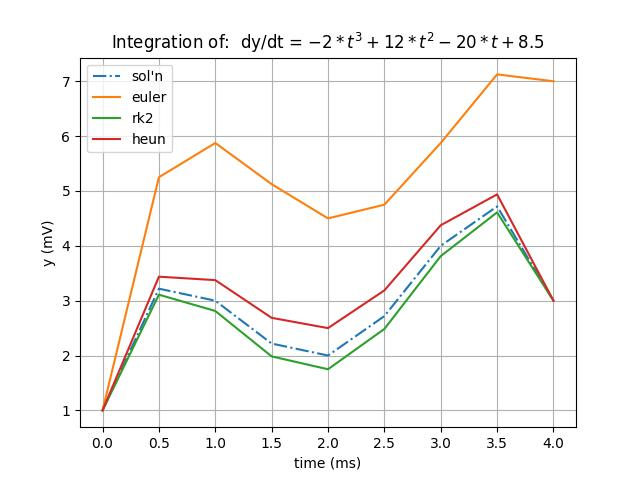
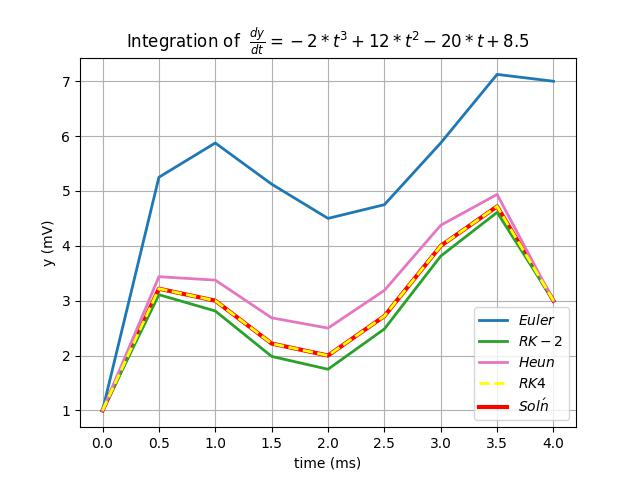
Rk4 Updates (#34)
* Add files via upload

* Update ode_utils.py

RK4 added
_sum_combine fun changed
RK2 aligned with RK4

* Update integration.md

ODE comparison code changed (RK4 added)

* Update integration.md

RK4 added to the descriptions

* Update rateCell.py

integType == 2 --> RK4

* Update ode_utils.py

rk4$ -> rk4

diff --git a/ngclearn/utils/diffeq/ode_utils.py b/ngclearn/utils/diffeq/ode_utils.py
@@ -2,10 +2,11 @@
 Routines and co-routines for ngc-learn's differential equation integration backend.
 
 Currently supported back-end forms of integration in ngc-learn include:
-1) Euler integration (RK-1);
-2) Midpoint method (RK-2);
-3) Heun's method (error-corrector RK-2); 
-4) Ralston's method (error-corrector RK-2)
+0) Euler integration (RK-1);
+1) Midpoint method (RK-2);
+2) Heun's method (error-corrector RK-2);
+3) Ralston's method (error-corrector RK-2);
+4) 4th-order Runge-Kutta method (RK-4);
 """
 from jax import numpy as jnp, random, jit #, nn
 from functools import partial
@@ -19,7 +20,7 @@ def get_integrator_code(integrationType):
     Args:
         integrationType: string indicating integrator type
             (supported type: rk1` or `euler`, `rk2` or `midpoint`,
-            `rk2_heun` or `heun`, `rk2_ralston` or `ralston`)
+            `rk2_heun` or `heun`, `rk2_ralston` or `ralston`, `rk4`)
 
     Returns:
         integator type integer code
@@ -31,17 +32,21 @@ def get_integrator_code(integrationType):
         intgFlag = 2
     elif integrationType == "rk2_ralston" or integrationType == "ralston": ## Ralston's method
         intgFlag = 3
-    # elif integrationType == "rk4": ## Runge-Kutte 4rd order code
-    #     intgFlag = 4
+    elif integrationType == "rk4": ## Runge-Kutte 4rd order code
+        intgFlag = 4
     else:
         if integrationType != "euler" or integrationType == "rk1":
             print("ERROR: unrecognized integration method {} provided! Defaulting \
                   to RK-1/Euler routine".format(integrationType))
     return intgFlag
 
+
 @jit
-def _sum_combine(y1, y2, weight1=1., weight2=1.): ## fast co-routine for simple addition
-    return (y1 * weight1 + y2 * weight2)
+def _sum_combine(*args, **kwargs): ## fast co-routine for simple addition
+    sum = 0
+    for arg, val in zip(args, kwargs.values()):
+        sum += arg * val
+    return sum
 
 @jit
 def _step_forward(t, x, dx_dt, dt, x_scale): ## internal step co-routine
@@ -110,9 +115,10 @@ def step_heun(t, x, dfx, dt, params, x_scale=1.):
     dx_dt = dfx(t, x, params)
     _t, _x = _step_forward(t, x, dx_dt, dt, x_scale)
     _dx_dt = dfx(_t, _x, params)
-    summed_dx_dt = _sum_combine(dx_dt, _dx_dt)
+    summed_dx_dt = _sum_combine(dx_dt, _dx_dt, weight1=1, weight2=1)
     _, _x = _step_forward(t, x, summed_dx_dt, dt * 0.5, x_scale)
     return _t, _x
+
 
 def step_rk2(t, x, dfx, dt, params, x_scale=1.):
     """
@@ -143,11 +149,59 @@ def step_rk2(t, x, dfx, dt, params, x_scale=1.):
     Returns:
         variable values iteratively integrated/advanced to next step (`t + dt`)
     """
-    dx_dt = dfx(t, x, params)
-    tm, xm = _step_forward(t, x, dx_dt, dt * 0.5, x_scale)
-    _dx_dt = dfx(tm, xm, params)
-    _t, _x = _step_forward(t, x, _dx_dt, dt, x_scale)
+    f_1 = dfx(t, x, params)
+    t1, x1 = _step_forward(t, x, f_1, dt * 0.5, x_scale)
+
+    f_2 = dfx(t1, x1, params)
+    _t, _x = _step_forward(t, x, f_2, dt, x_scale)
     return _t, _x
+
+
+def step_rk4(t, x, dfx, dt, params, x_scale=1.):
+    """
+    Iteratively integrates one step forward via the midpoint method, i.e., a
+    fourth-order Runge-Kutta (RK-4) step.
+    (Note: ngc-learn internally recognizes "rk4" or this routine)
+
+    | Reference:
+    | Ascher, Uri M., and Linda R. Petzold. Computer methods for ordinary
+    | differential equations and differential-algebraic equations. Society for
+    | Industrial and Applied Mathematics, 1998.
+
+    Args:
+        t: current time variable to advance by dt
+
+        x: current variable values to advance/iteratively integrate (at time `t`)
+
+        dfx: (ordinary) differential equation co-routine (as implemented in an
+            ngc-learn component)
+
+        dt: integration time step (also referred to as `h` in mathematics)
+
+        params: tuple containing configuration values/hyper-parameters for the
+            (ordinary) differential equation an ngc-learn component will provide
+
+        x_scale: dampening factor to scale `x` by (Default: 1)
+
+    Returns:
+        variable values iteratively integrated/advanced to next step (`t + dt`)
+    """
+    f_1 = dfx(t, x, params)
+    t1, x1 = _step_forward(t, x, f_1, dt * 0.5, x_scale)
+
+    f_2 = dfx(t1, x1, params)
+    t2, x2 = _step_forward(t, x, f_2, dt * 0.5, x_scale)
+
+    f_3 = dfx(t2, x2, params)
+    t3, x3 = _step_forward(t, x, f_3, dt, x_scale)
+
+    f_4 = dfx(t3, x3, params)
+
+    _dx_dt = _sum_combine(f_1, f_2, f_3, f_4, w_f1=1, w_f2=2, w_f3=2, w_f4=1)
+    _t, _x = _step_forward(t, x, _dx_dt, dt / 6, x_scale)
+    return _t, _x
+
+
 
 def step_ralston(t, x, dfx, dt, params, x_scale=1.):
     """

diff --git a/ngclearn/components/neurons/graded/rateCell.py b/ngclearn/components/neurons/graded/rateCell.py
@@ -7,7 +7,7 @@ from ngclearn.components.jaxComponent import JaxComponent
 from ngclearn.utils.model_utils import create_function, threshold_soft, \
                                        threshold_cauchy
 from ngclearn.utils.diffeq.ode_utils import get_integrator_code, \
-                                            step_euler, step_rk2
+                                            step_euler, step_rk2, step_rk4
 
 ## rewritten code
 @partial(jit, static_argnums=[3, 4, 5])
@@ -60,7 +60,7 @@ def run_cell(dt, j, j_td, z, tau_m, leak_gamma=0., integType=0, priorType=None):
 
         leak_gamma: strength of leak to apply to membrane/state
 
-        integType: integration type to use (0 --> Euler/RK1, 1 --> Midpoint/RK2)
+        integType: integration type to use (0 --> Euler/RK1, 1 --> Midpoint/RK2, 2 --> RK4)
 
         priorType: scale-shift prior distribution to impose over neural dynamics
 
@@ -70,6 +70,9 @@ def run_cell(dt, j, j_td, z, tau_m, leak_gamma=0., integType=0, priorType=None):
     if integType == 1:
         params = (j, j_td, tau_m, leak_gamma, priorType)
         _, _z = step_rk2(0., z, _dfz, dt, params)
+    elif integType == 2:
+        params = (j, j_td, tau_m, leak_gamma, priorType)
+        _, _z = step_rk4(0., z, _dfz, dt, params)
     else:
         params = (j, j_td, tau_m, leak_gamma, priorType)
         _, _z = step_euler(0., z, _dfz, dt, params)

diff --git a/docs/tutorials/neurocog/integration.md b/docs/tutorials/neurocog/integration.md
@@ -102,8 +102,8 @@ by $\frac{\Delta t}{\tau}$).
 ## Higher-Order Forms of (Explicit) Integration
 
 Notably, ngc-learn has built-in several forms of (explicit) numerical integration beyond
-the Euler method, such as a second order Runge-Kutta (RK) method (also known as
-the midpoint method or RK-2) or an error-predictor method such as Heun's method
+the Euler method, such as a second order Runge-Kutta (RK-2) method (also known as
+the midpoint method) and 4th-order Runge-Kutta (RK-4) method or an error-predictor method such as Heun's method
 (also known as the trapezoid method). These forms of integration might be useful particularly
 if a cell or plastic synaptic component you might be writing follows dynamics
 that are more nonlinear or biophysically complex (requiring a higher degree
@@ -121,20 +121,18 @@ $\frac{\partial y(t)}{\partial t} = -2 t^3 + 12 t^2 - 20 t + 8.5$ which
 has the analytic solution $y(t) = -(1/2) t^4 + 4 t^3 - 10 t^2 + 8.5 t + C$ (
 where we will set $C = 1$). You can write code like below, importing from
 `ngclearn.utils.diffeq.ode_utils` the Euler routine (`step_euler`),
-the RK-2 routine (`step_rk2`), and Heun's method (`step_heun`), and compare
+the RK-2 routine (`step_rk2`), RK-4 routine (`step_rk4`), and Heun's method (`step_heun`), and compare
 how these methods approximate the nonlinear dynamics inherent to our
 constructed $\frac{\partial y(t)}{\partial t}$ ODE below:
 
 ```python
 from jax import numpy as jnp, random, jit, nn
-from functools import partial
-
 import matplotlib #.pyplot as plt
 matplotlib.use('Agg')
 import matplotlib.pyplot as plt
 cmap = plt.cm.jet
 
-from ngclearn.utils.diffeq.ode_utils import step_euler, step_rk2 as step_midpoint, step_heun
+from ngclearn.utils.diffeq.ode_utils import step_euler, step_rk2 as step_midpoint, step_heun, step_rk4
 
 @jit
 def soln(t): ## analytic solution
@@ -157,13 +155,16 @@ t_values = [t]
 rk2_data = [y0]
 heun_data = [y0]
 euler_data = [y0]
+rk4_data = [y0]
 for i in range(0, T):
     _t, _y = step_heun(t, heun_data[-1], dfy, dt, (1,1))
     heun_data.append(_y)
-    _t, _y = step_midpoint(t, rk2_data[-1], dfy, dt, (1,1))
+    _t, _y = step_rk2(t, rk2_data[-1], dfy, dt, (1,1))
     rk2_data.append(_y)
     _t, _y = step_euler(t, euler_data[-1], dfy, dt, (1,1))
     euler_data.append(_y)
+    _t, _y = step_rk4(t, rk4_data[-1], dfy, dt, (1,1))
+    rk4_data.append(_y)
     ## Note: we move time forward below only for demo-purposes since each
     ##       method increments and returns new time for you (e.g., "_t" as above)
     t = t + dt
@@ -176,14 +177,15 @@ euler_data = jnp.asarray(euler_data)
 soln_values = soln(t_values)
 fig, ax = plt.subplots()
 
-sol = ax.plot(t_values, soln_values, '-.', color='C0')
-eul = ax.plot(t_values, euler_data, color='C1') #, alpha=.5)
-rk2 = ax.plot(t_values, rk2_data, color='C2')
-heun = ax.plot(t_values, heun_data, color='C3')
+sol = ax.plot(t_values, soln_values, color='r', lw=3)
+eul = ax.plot(t_values, euler_data, color='C0', lw=2) #, alpha=.5)
+rk2 = ax.plot(t_values, rk2_data, color='C2', lw=2)
+heun = ax.plot(t_values, heun_data, color='C6', lw=2)
+rk4 = ax.plot(t_values, rk4_data, '--', color='yellow', lw=2)
 
 ax.set(xlabel='time (ms)', ylabel='y (mV)',
-       title='Integration of:  dy/dt = $-2 * t^3 + 12 * t^2 - 20 * t + 8.5$')
-ax.legend([sol[0],eul[0],rk2[0],heun[0]],['sol\'n','euler','rk2','heun'])
+       title='Integration of  '  r'$\frac{dy}{dt} = -2 * t^3 + 12 * t^2 - 20 * t + 8.5$')
+ax.legend([eul[0], rk2[0],heun[0], rk4[0], sol[0]],[r'$Euler$',r'$RK-2$', r'$Heun$', r'$RK4$', r'$Sol\'n$'])
 ax.grid()
 fig.savefig("ode_method_comparison.jpg")
 ```
@@ -192,7 +194,8 @@ which should yield you a plot like the one below:
 
 <img src="../../images/tutorials/neurocog/ode_method_comparison.jpg" width="500" />
 
-As you might observe, when the integration step size is held constant, Euler integration
+As you might observe, RK-4 give the best approximation of the solution. In addition, 
+when the integration step size is held constant, Euler integration
 does quite poorly over just a few steps while RK-2 and Heun's method do much better
 at approximating the analytical equation. In the end, the type of numerical integration method employed can
 matter depending on the ODE(s) you use in modeling, particularly if you seek higher accuracy
